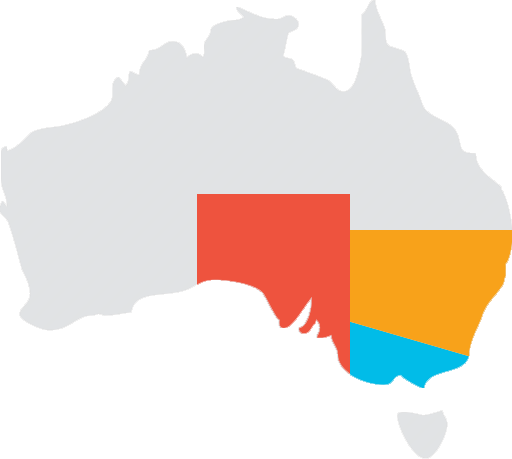
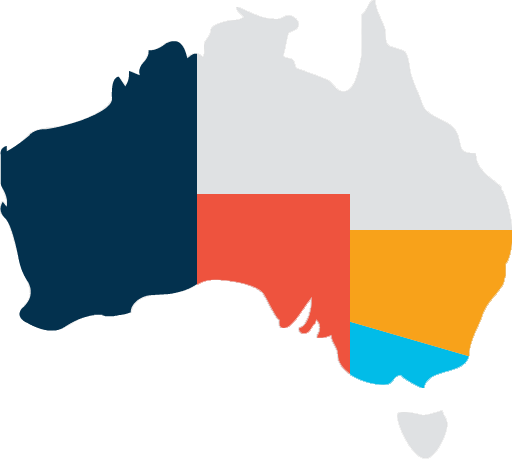
Added WA to image map
* updated image map
* added 4 columns to the locations tabs
* tabs now stack in 2s on medium screens

Changed region(s): [[0.0, 0.0915, 0.4062, 0.732]]

diff --git a/src/_layouts/child_layout/locations.html b/src/_layouts/child_layout/locations.html
@@ -42,7 +42,13 @@ layout: base__page
 
 	<!-- ACCORDION TRIGGER -->
 	<div class="accordion-trigger" data-accordion-trigger>
-		<ul class="block-grid-xs-1 block-grid-md-3 block-grid-condensed">
+		<ul class="block-grid-xs-1 block-grid-md-2 block-grid-xl-4 block-grid-condensed">
+			<li>
+				<a class="btn-tile btn-tile-dropdown" href="#wa">
+					<span class="h4 text">Western Australia</span>
+					<i class="fa fa-angle-up fa-angle-down"></i>
+				</a>
+			</li>
 			<li>
 				<a class="btn-tile btn-tile-dropdown" href="#sa">
 					<span class="h4 text">South Australia</span>
@@ -133,6 +139,36 @@ layout: base__page
 				<li>
 					<div class="card-location" data-equal-height>
 						<h3>New South Wales</h3>
+						<div class="row">
+							<div class="col-md-6">
+								<p>{{ settings.offices[0].address }} <br>
+								<a href="#">View on map <i class="fa fa-angle-right"></i></a></p>
+							</div>
+							<div class="col-md-6">
+								<p>Phone: <a href="tel:{{ settings.offices[0].phone }}">{{ settings.offices[0].phone }}</a><br>
+								Fax: {{ settings.offices[0].fax }}</a></p>
+							</div>
+						</div>
+						<h4 class="h6">Services</h4>
+						<ul class="block-grid-xs-1 block-grid-md-2 list-condensed">
+							<li><i class="fa fa-check-circle"></i>&nbsp; Workskil Employment</li>
+							<li><i class="fa fa-check-circle"></i>&nbsp; Workskil Youth</li>
+							<li><i class="fa fa-check-circle"></i>&nbsp; Workskil Health</li>
+							<li><i class="fa fa-check-circle"></i>&nbsp; Workskil Indigenous</li>
+						</ul>
+					</div>
+				</li>
+			{% endfor %}
+		</ul>
+	</div>
+
+	<!-- ACCORDION CONTENT 4 -->
+	<div id="wa" class="accordion" data-accordion>
+		<ul class="block-grid-xs-1 block-grid-md-2 block-grid-xl-3">
+			{% for i in (1..9) %}
+				<li>
+					<div class="card-location" data-equal-height>
+						<h3>Western Australia</h3>
 						<div class="row">
 							<div class="col-md-6">
 								<p>{{ settings.offices[0].address }} <br>

diff --git a/src/_layouts/child_layout/contact.html b/src/_layouts/child_layout/contact.html
@@ -38,10 +38,12 @@ layout: base__page
 						</div>
 						<div class="col-md-7">
 							<img width="100%" src="/assets/img/layout/aus-locations.png" usemap="#aus-map" alt="Australia Map">
+							<!-- Image Map Generated by http://www.image-map.net/ -->
 							<map name="aus-map" id="aus-map">
-							    <area alt="South Australia" title="South Australia" href="/locations/#sa" shape="poly" coords="198,194,350,193,351,373,197,284">
-							    <area alt="New South Wales" title="New South Wales" href="/locations/#nsw" shape="poly" coords="354,229,512,231,479,356,354,322">
-							    <area alt="Victoria" title="Victoria" href="/locations/#vic" shape="poly" coords="354,325,354,385,468,396,474,358">
+								<area alt="South Australia" title="South Australia" href="/locations/#sa" coords="197,194,349,194,348,372,197,284" shape="poly">
+							    <area alt="New South Wales" title="New South Wales" href="/locations/#nsw" coords="351,229,351,319,474,357,512,230" shape="poly">
+							    <area alt="Victoria" title="Victoria" href="/locations/#vic" coords="351,376,351,321,472,358,421,394" shape="poly">
+							    <area alt="Western Australia" title="Western Australia" href="/locations/#wa" coords="196,52,196,283,23,344,0,149,98,114,150,52" shape="poly">
 							</map>
 						</div>
 					</div>
